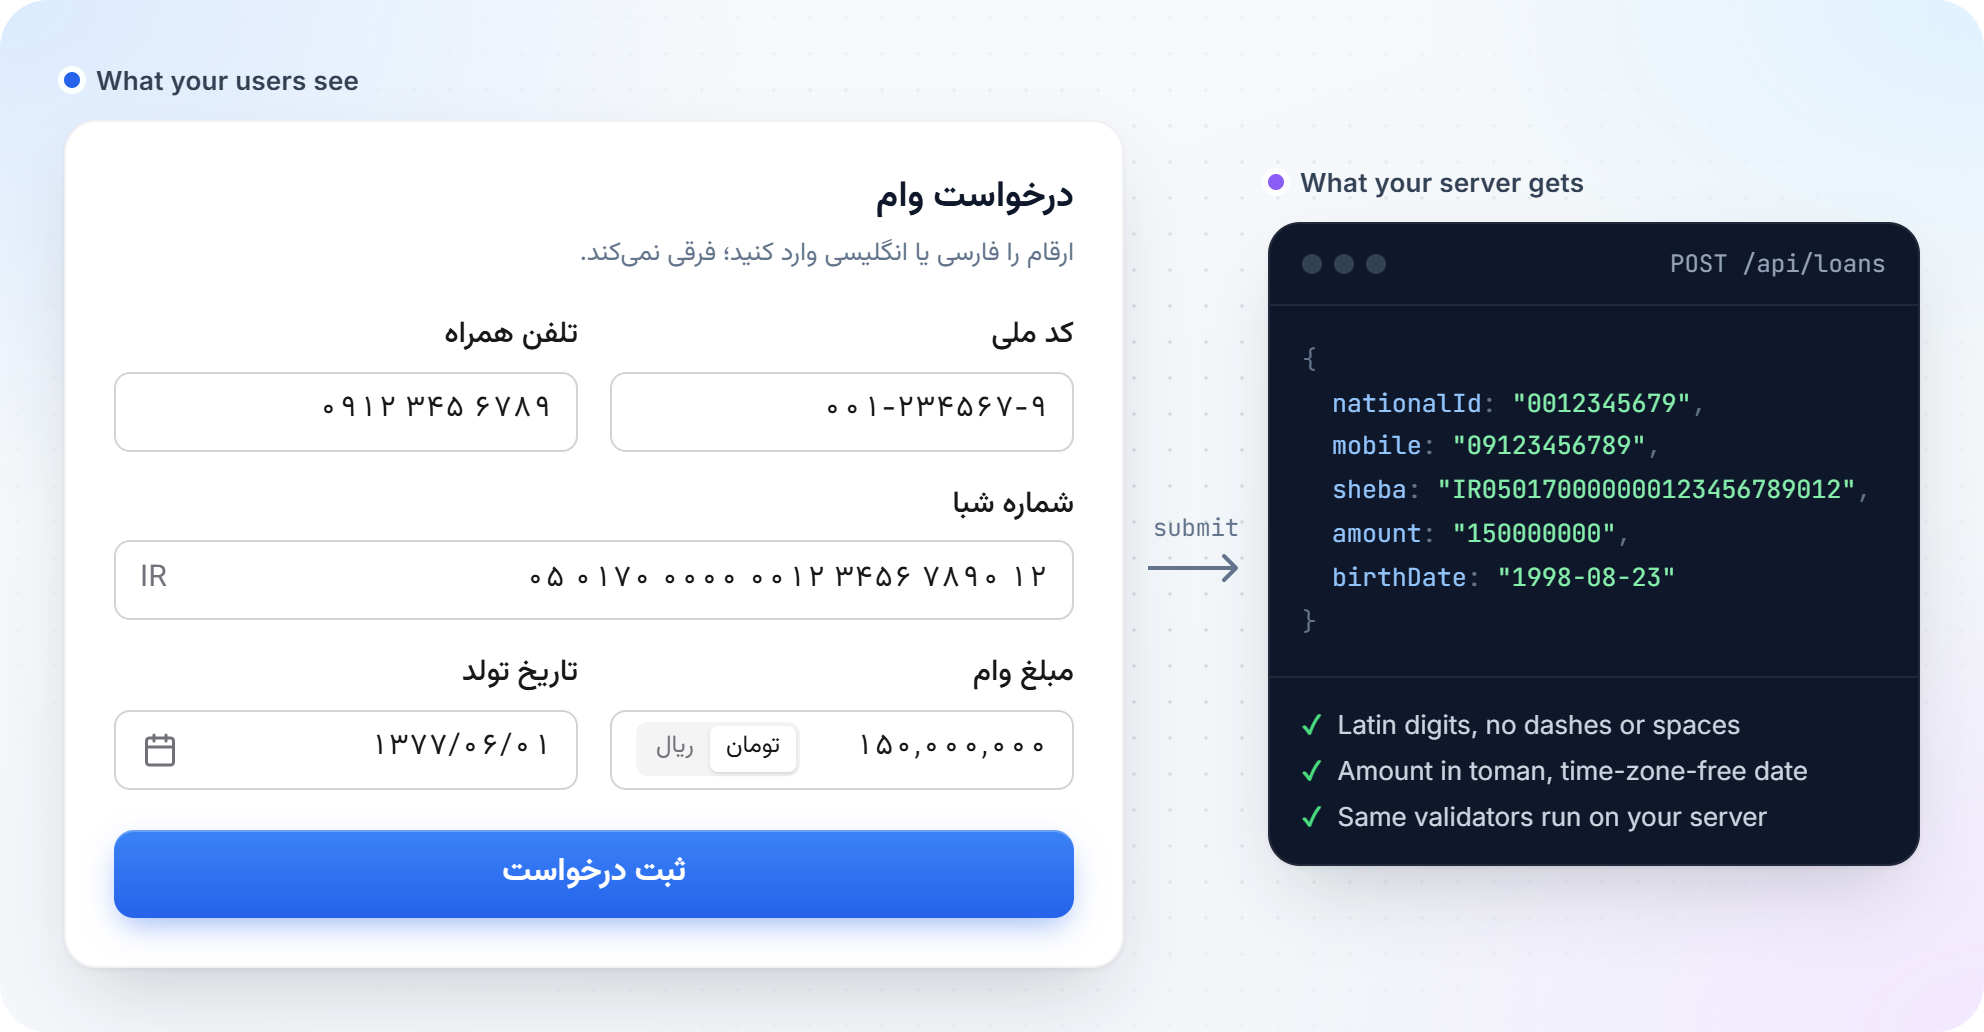
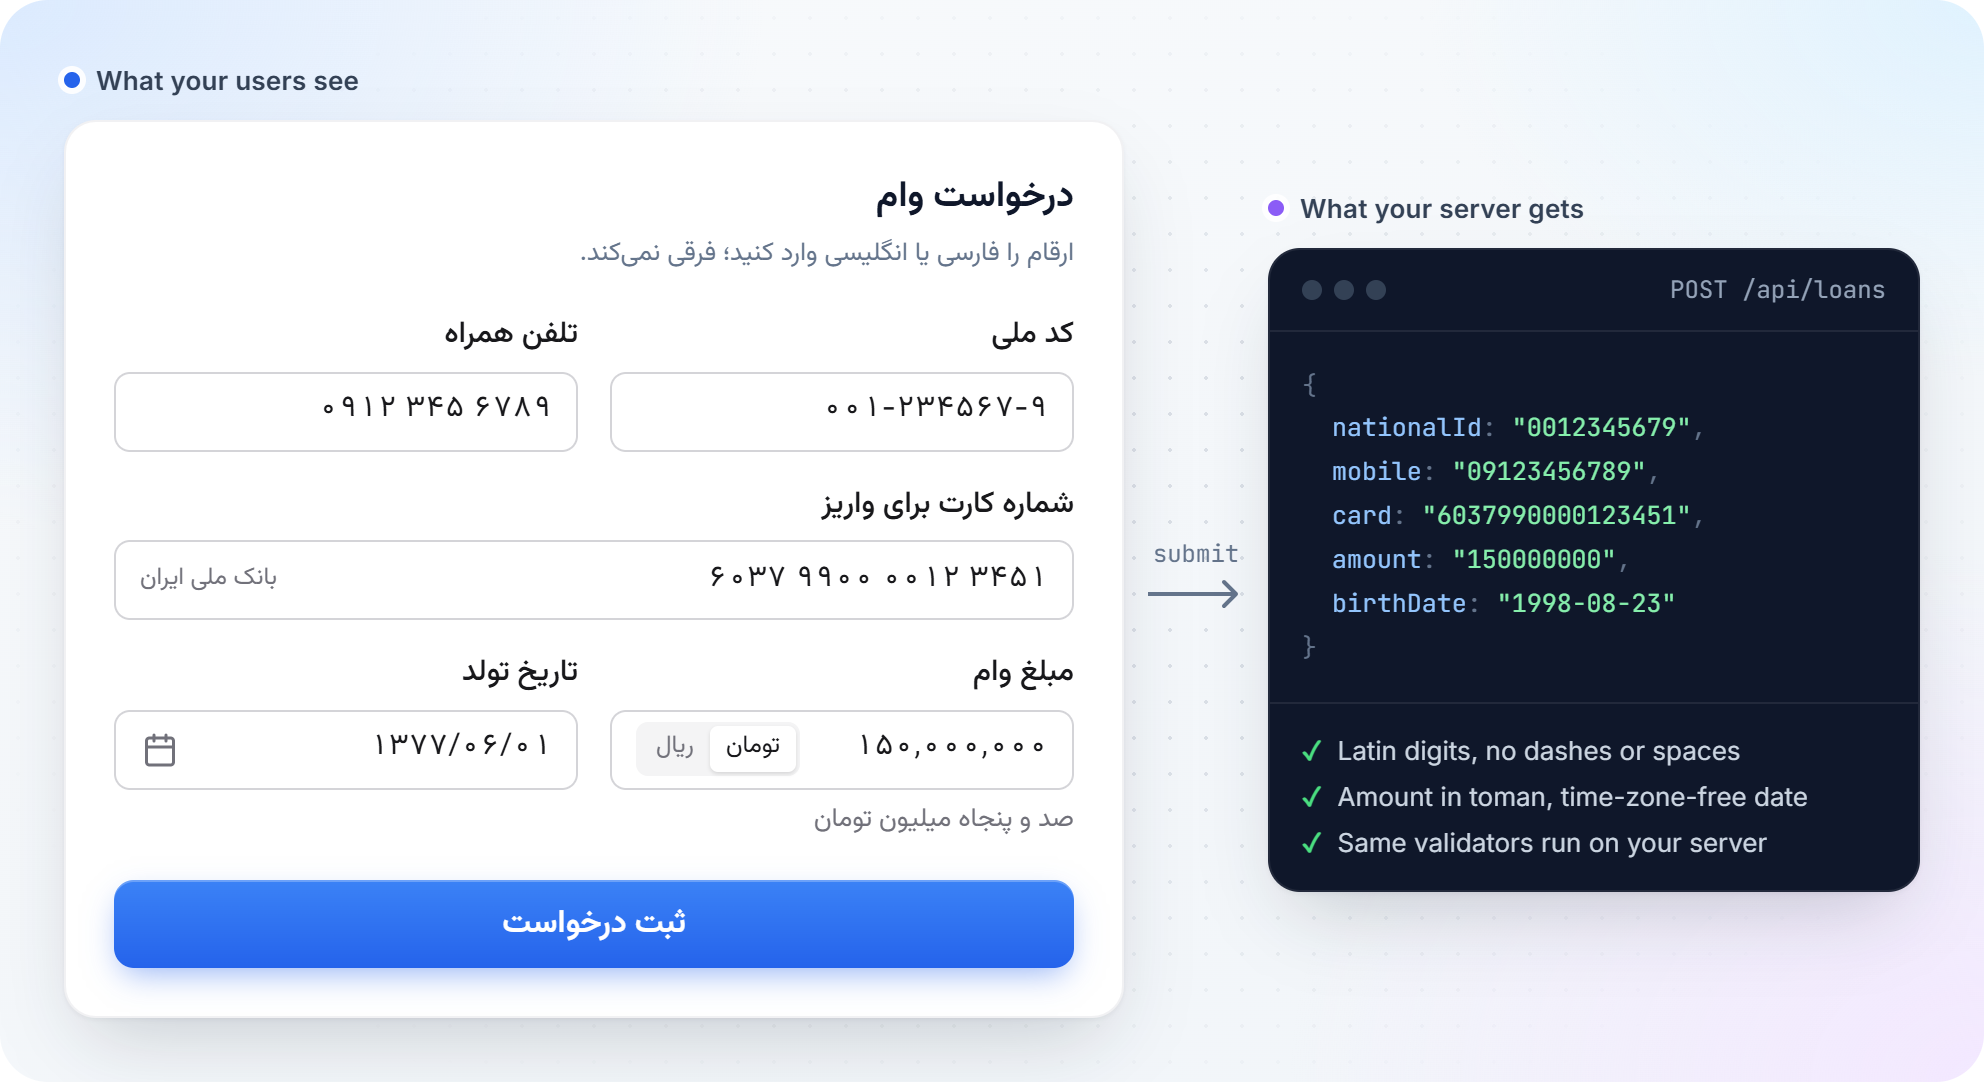
Phase 3 (v0.2): build checks, README and screenshots, version 0.2.0
- check-dist renders PersianDateRangePicker and CardNumberInput from the
  built ESM and CJS files and calls numberToWords, getBankFromCardNumber and
  fixKeyboardLayout from the built core.
- PersianDateRangePicker inputs are sized for one date (size=10), so the
  field is about two dates wide when it sizes to fit (was ~440px); covered
  by a real-browser test.
- README: new features in the pitch, the search section and the table of
  contents; the hero shows a card field with its bank and an amount in
  words, and the themes image opens the range picker.
- package.json: version 0.2.0, description and keywords.

diff --git a/playground/shots.tsx b/playground/shots.tsx
@@ -2,23 +2,24 @@ import "./shots.css";
 import { normalizePersian } from "@amirjaz/persian-ui/core";
 import { useEffect, useRef, useState, type CSSProperties, type ReactNode } from "react";
 import {
+  CardNumberInput,
   DirectionProvider,
   MobileInput,
   NationalIdInput,
   PersianCalendar,
   PersianDatePicker,
+  PersianDateRangePicker,
   PersianText,
   PriceInput,
-  ShebaInput,
 } from "../src/react";
-import { nationalIdFromBody, shebaFromBban } from "../test/generators";
+import { cardNumberFromBody, nationalIdFromBody } from "../test/generators";
 
 /*
  * Scenes captured for the README by scripts/screenshots.mjs (open /?shots).
  * Identifiers are generated from their checksums, never real ones.
  */
 const NATIONAL_ID = nationalIdFromBody("001234567");
-const SHEBA = shebaFromBban("0170000000123456789012");
+const CARD = cardNumberFromBody("603799000012345");
 const ZWNJ = "\u200c";
 
 export function Shots() {
@@ -57,8 +58,8 @@ function HeroShot() {
             <div className="form-card__grid">
               <NationalIdInput name="nationalId" label="کد ملی" defaultValue={NATIONAL_ID} />
               <MobileInput name="mobile" label="تلفن همراه" defaultValue="09123456789" />
-              <ShebaInput className="span-2" name="sheba" label="شماره شبا" defaultValue={SHEBA} />
-              <PriceInput name="amount" label="مبلغ وام" defaultValue={150000000} />
+              <CardNumberInput className="span-2" name="card" label="شماره کارت برای واریز" defaultValue={CARD} />
+              <PriceInput name="amount" label="مبلغ وام" defaultValue={150000000} showWords />
               <PersianDatePicker name="birthDate" label="تاریخ تولد" defaultValue="1998-08-23" />
             </div>
             <button type="submit" className="form-card__submit">
@@ -277,10 +278,15 @@ function ThemesShot() {
   return (
     <section id="shot-themes" className="canvas trio" dir="ltr">
       <div className="scene-col">
-        <Eyebrow dot="blue">Default · right-to-left</Eyebrow>
+        <Eyebrow dot="blue">Date range · right-to-left</Eyebrow>
         <DirectionProvider dir="rtl">
           <div className="card theme-card theme-card-picker" dir="rtl">
-            <PersianDatePicker label="تاریخ سفر" defaultValue="2025-03-21" defaultOpen />
+            <PersianDateRangePicker
+              label="تاریخ سفر"
+              defaultValue={{ start: "2025-03-30", end: "2025-04-05" }}
+              defaultOpen
+              showFooter={false}
+            />
           </div>
         </DirectionProvider>
       </div>

diff --git a/test/browser/layout.browser.test.tsx b/test/browser/layout.browser.test.tsx
@@ -172,6 +172,21 @@ describe.each(["rtl", "ltr"] as const)("layout in a %s page", (dir) => {
     else expect(Math.abs(popup.left - control.left)).toBeLessThan(1);
   });
 
+  it("keeps the range picker about two dates wide when it sizes to fit", () => {
+    render(
+      <div dir={dir} style={{ display: "inline-flex" }}>
+        <PersianDateRangePicker label="سفر" defaultValue={{ start: "2025-04-04", end: "2025-04-09" }} />
+      </div>,
+    );
+    const field = rect(document.querySelector(".pui-date-range-picker")!);
+    expect(field.width).toBeLessThan(340);
+    // Both dates still show in full.
+    for (const name of ["سفر از", "سفر تا"]) {
+      const input = screen.getByRole("textbox", { name }) as HTMLInputElement;
+      expect(input.scrollWidth).toBeLessThanOrEqual(input.clientWidth);
+    }
+  });
+
   it("puts the price unit switch at the end of the field", () => {
     render(
       <div dir={dir}>

diff --git a/src/react/date-picker/PersianDateRangePicker.tsx b/src/react/date-picker/PersianDateRangePicker.tsx
@@ -315,6 +315,8 @@ export const PersianDateRangePicker = forwardRef<HTMLInputElement, PersianDateRa
           dir="ltr"
           inputMode="numeric"
           autoComplete="off"
+          // Wide enough for «۱۴۰۴/۰۱/۱۵»; the default (20) makes the field too wide when it sizes to fit.
+          size={10}
           className={cx(
             "pui-field__input",
             "pui-date-range-picker__input",

diff --git a/playground/shots.css b/playground/shots.css
@@ -467,6 +467,7 @@ li[data-hit] .search__mark {
 /* The picker's dialog is absolutely positioned: leave room for it. */
 .theme-card-picker {
   display: block;
+  place-items: normal;
   inline-size: 17.25rem;
   padding: 1rem;
   padding-block-end: 23.5rem;

diff --git a/README.md b/README.md
@@ -1,14 +1,15 @@
 # @amirjaz/persian-ui
 
 **React components and utilities for Persian apps, with the hard parts done right:**
-numbers that stay in order inside Persian text, a Jalali date picker, inputs for
-Iranian IDs, and search that finds what users meant.
+numbers that stay in order inside Persian text, Jalali date and range pickers, inputs
+for Iranian IDs and bank cards, and search that finds what users meant.
 
-![A Persian loan form: users type national ID, mobile, Sheba, amount and birth date in Persian digits, and the server receives clean Latin-digit values](https://raw.githubusercontent.com/Amirjaz/persian-ui/main/docs/images/hero.png)
+![A Persian loan form: users type national ID, mobile, bank card (the field names the bank), amount (shown in words) and birth date in Persian digits, and the server receives clean Latin-digit values](https://raw.githubusercontent.com/Amirjaz/persian-ui/main/docs/images/hero.png)
 
 - **Persian on screen, clean data in your code.** Inputs format as the user types or
   pastes, in Persian, Arabic or Latin digits, and give you normalized values with real
-  checksums verified.
+  checksums verified. Card and Sheba fields name the bank as it's typed, and amounts
+  can be shown in words.
 - **Right-to-left done right.** Logical CSS only, and every component is tested in
   right-to-left, left-to-right and nested pages, including in a real browser.
 - **Accessible.** WAI-ARIA grid and dialog patterns, full keyboard support, and errors
@@ -55,31 +56,35 @@ are different characters. Add diacritics, ZWNJ and three digit scripts, and
 ![Searching contacts for «علی»: includes() finds 2 of 5, missing names written with Arabic letters or a diacritic; normalizePersian in search mode finds all 5](https://raw.githubusercontent.com/Amirjaz/persian-ui/main/docs/images/search.png)
 
 ```ts
-import { normalizePersian } from "@amirjaz/persian-ui/core";
+import { fixKeyboardLayout, normalizePersian } from "@amirjaz/persian-ui/core";
 
 const key = (text: string) => normalizePersian(text, { mode: "search" });
 key("علي") === key("علی"); // true (Arabic ي, Persian ی)
+
+fixKeyboardLayout("sghl", "fa"); // "سلام": typed with the English layout still on
 ```
 
-## A date picker that knows the calendar
+## Date pickers that know the calendar
 
-Iranian holidays, optional Gregorian days, and keyboard navigation that follows the
-reading direction. Values are time-zone-free ISO strings (`"2025-03-21"`), so a date
-never arrives at your server a day early. Restyle it with CSS variables:
+Single dates or ranges, with Iranian holidays, optional Gregorian days, and keyboard
+navigation that follows the reading direction. Values are time-zone-free ISO strings
+(`"2025-03-21"`), so a date never arrives at your server a day early. Restyle them
+with CSS variables:
 
-![The date picker open in a right-to-left page, the calendar in dark mode with Gregorian days, and in a custom teal theme in a left-to-right page](https://raw.githubusercontent.com/Amirjaz/persian-ui/main/docs/images/themes.png)
+![The date range picker open in a right-to-left page with 10 to 16 Farvardin selected, the calendar in dark mode with Gregorian days, and in a custom teal theme in a left-to-right page](https://raw.githubusercontent.com/Amirjaz/persian-ui/main/docs/images/themes.png)
 
 ## What's inside
 
 | For | Use |
 |---|---|
-| Jalali dates | `PersianDatePicker`, `PersianCalendar` |
-| Iranian IDs | `NationalIdInput`, `MobileInput`, `ShebaInput` |
-| Prices in toman or rial | `PriceInput` |
+| Jalali dates and ranges | `PersianDatePicker`, `PersianCalendar`, `PersianDateRangePicker`, `PersianRangeCalendar` |
+| Iranian IDs and bank cards | `NationalIdInput`, `MobileInput`, `ShebaInput`, `CardNumberInput` |
+| Prices in toman or rial | `PriceInput` (optionally with the amount in words) |
 | Mixed-direction text | `PersianText`, `DirectionProvider` |
-| Validation, also on the server | `validateNationalId`, `validateIranianMobile`, `validateSheba`, `validatePostalCode`, `validatePlate` |
+| Validation, also on the server | `validateNationalId`, `validateIranianMobile`, `validateSheba`, `validateCardNumber`, `validatePostalCode`, `validatePlate` |
+| Banks | `getBankFromCardNumber`, `getBankFromSheba`, `IRANIAN_BANKS` |
 | Date helpers | `toJalali`, `toGregorian`, `formatJalali`, `parseJalali` |
-| Text and money | `normalizePersian`, `toPersianDigits`, `toEnglishDigits`, `formatToman`, `formatRial` |
+| Text and money | `normalizePersian`, `fixKeyboardLayout`, `toPersianDigits`, `toEnglishDigits`, `formatToman`, `formatRial`, `numberToWords` |
 
 Components come from `@amirjaz/persian-ui`, functions from `@amirjaz/persian-ui/core`
 (no React needed, so they work in Server Components and server actions).
